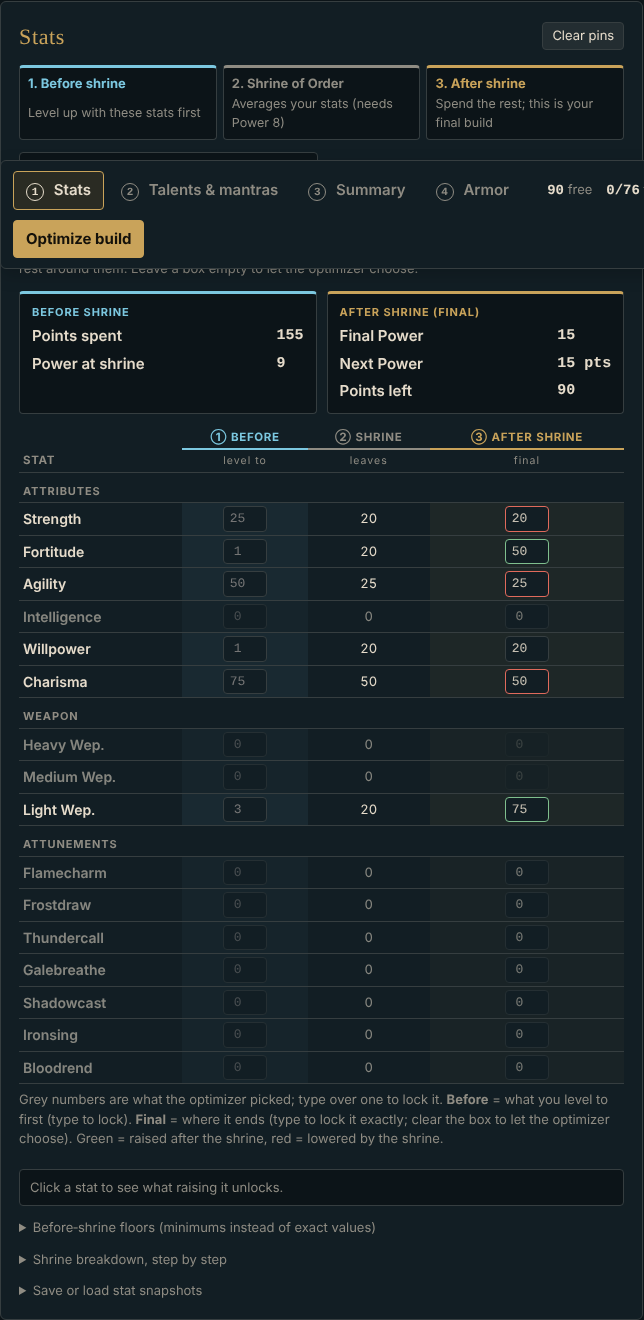
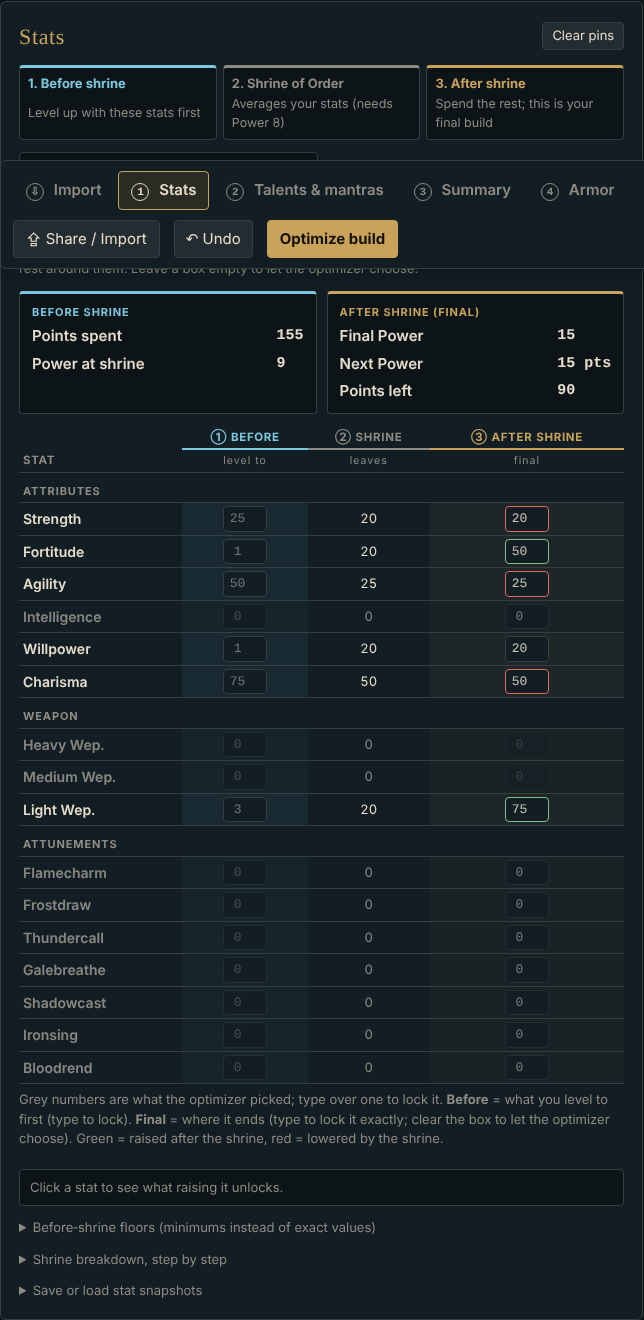
AI maker focuses one attunement (80/40, 80/80 when points allow); Report a bug tab (v1.21)
- One main attunement; two = 80/40, raised to 80/80 when the points allow
  (straight to 80/80 for mages or 'dual'); three or more = main + 40s
- Report a bug tab: reports are emailed privately to the developer through
  Web3Forms once its access key is added (BUG_KEY)

Claude-Session: https://claude.ai/code/session_01FgpXtZoLrXDjHgUHZTAHg7

Changed region(s): [[0.0, 0.1242, 0.6211, 0.2174], [0.8385, 0.1242, 0.9938, 0.1553], [0.6522, 0.1242, 0.7764, 0.1553]]

diff --git a/index.html b/index.html
@@ -277,6 +277,9 @@ dialog#wiz::backdrop{background:rgba(0,0,0,.6)}
 .likely{display:grid;gap:2px;max-height:620px;overflow:auto}
 .lrow{display:flex;gap:8px;align-items:flex-start;padding:5px 4px;border-bottom:1px solid var(--line);cursor:pointer}
 .lrow input{margin-top:3px}.lrow .nm{min-width:0}.lrow small{display:block;color:var(--dim);font-size:11.5px}
+.bugform{display:grid;gap:10px}.bugform label{display:grid;gap:4px;font-size:14px}.bugform textarea,.bugform input[type=text]{font:inherit;font-size:14px;background:var(--abyss);color:var(--bone);border:1px solid var(--line);border-radius:4px;padding:6px 8px;resize:vertical}
+.bugform label.hint{display:block}.hp{position:absolute;left:-9999px;width:1px;height:1px;opacity:0}
+.bugtips{margin:0;padding-left:18px;display:grid;gap:4px}
 .tipacts{display:flex;flex-wrap:wrap;gap:4px;margin-top:4px}
 .bmsteps{margin:4px 0;padding-left:20px;display:grid;gap:4px}
 #imp1{resize:vertical;font:inherit;font-size:13px;background:var(--abyss);color:var(--bone);border:1px solid var(--line);border-radius:4px;padding:6px 8px}
@@ -426,7 +429,7 @@ details summary{cursor:pointer;color:var(--dim);font-size:13px}
 <div class="wrap">
 <header class="topbar">
   <div>
-    <h1>Meta <span>Builder</span><small class="ver" title="Meta Builder version">v1.20</small></h1>
+    <h1>Meta <span>Builder</span><small class="ver" title="Meta Builder version">v1.21</small></h1>
     <p>Deepwoken Shrine of Order planner: build, optimize, check damage, then gear up.</p>
   </div>
   <details id="lookbox" style="min-width:min(100%,280px)"><summary><svg viewBox="0 0 24 24" fill="none" stroke="currentColor" stroke-width="2" aria-hidden="true"><path d="M12 3a9 9 0 1 0 0 18c1.1 0 1.6-.9 1.6-1.7 0-.5-.2-.9-.5-1.2-.3-.3-.5-.7-.5-1.2 0-.9.8-1.7 1.7-1.7H16a5 5 0 0 0 5-5c0-3.9-4-7.2-9-7.2Z"/><circle cx="7.5" cy="11" r="1.2" fill="currentColor"/><circle cx="10.5" cy="7" r="1.2" fill="currentColor"/><circle cx="15" cy="7.5" r="1.2" fill="currentColor"/></svg>Customize look</summary>
@@ -455,6 +458,7 @@ details summary{cursor:pointer;color:var(--dim);font-size:13px}
     <button role="tab" id="t-req" data-tab="req" aria-controls="tab-req"><b>2</b> Talents &amp; mantras</button>
     <button role="tab" id="t-sum" data-tab="sum" aria-controls="tab-sum"><b>3</b> Summary</button>
     <button role="tab" id="t-arm" data-tab="arm" aria-controls="tab-arm"><b>4</b> Armor</button>
+    <button role="tab" id="t-bug" data-tab="bug" aria-controls="tab-bug"><b>!</b> Report a bug</button>
   </div>
   <div class="status" id="status" aria-live="polite"></div>
   <div class="seg modeseg" id="modeseg" role="group" aria-label="Planner mode"><button class="mini" data-mode="opt" title="The optimizer picks pre-shrine stats, raises stats for your talents and spends leftovers">Optimizer</button><button class="mini" data-mode="man" title="You set every stat yourself; nothing is raised or chosen for you">Manual</button></div>
@@ -736,6 +740,36 @@ details summary{cursor:pointer;color:var(--dim);font-size:13px}
       <input type="text" id="ximport" placeholder="Paste a share link, deepwoken.co link, or Deepwoken build text" aria-label="Import build" style="flex:1 1 200px">
       <button id="xload">Import</button>
     </div>
+  </section>
+</div>
+</div>
+
+<!-- ============ REPORT A BUG ============ -->
+<div class="tabpane grid" id="tab-bug" role="tabpanel" aria-labelledby="t-bug" hidden>
+<div class="col">
+  <section class="panel">
+    <h2>Report a bug</h2>
+    <p class="hint" style="margin:0">Something wrong or confusing? Tell us here. Reports go privately to the developer; nobody else can see them.</p>
+    <form id="bugform" class="bugform" autocomplete="off">
+      <label>What went wrong?<textarea id="bugwhat" rows="4" required maxlength="3000" placeholder="e.g. I pressed Optimize build and it went over budget"></textarea></label>
+      <label>What did you expect instead? <span class="hint">(optional)</span><textarea id="bugexp" rows="2" maxlength="1500"></textarea></label>
+      <label>How to reach you if you want a reply <span class="hint">(optional: Discord name or email)</span><input type="text" id="bugcontact" maxlength="120"></label>
+      <label class="hint"><input type="checkbox" id="bugbuild" checked> Include my current build (a link to it), the version and my browser, so the bug can be reproduced</label>
+      <input type="checkbox" name="botcheck" id="bugbot" class="hp" tabindex="-1" autocomplete="off" aria-hidden="true">
+      <div class="row"><button class="primary" type="submit" id="bugsend">Send report</button></div>
+      <p class="hint" id="bugmsg" aria-live="polite" style="margin:0"></p>
+    </form>
+  </section>
+</div>
+<div class="col">
+  <section class="panel">
+    <h2>Good reports</h2>
+    <ul class="hint bugtips">
+      <li>Say which tab and which button you used.</li>
+      <li>Say what you typed or picked right before it happened.</li>
+      <li>Keep “Include my current build” ticked, so the exact build can be opened again.</li>
+      <li>One problem per report.</li>
+    </ul>
   </section>
 </div>
 </div>
@@ -4714,7 +4748,7 @@ function renderGear(){
   $('gnote').innerHTML=(st.bad.length?`<span class="gbad">Your final stats don't meet ${esc(st.bad.join(', '))}.</span> `:'')+'Effective HP = health ÷ (1 − armor × (1 − attacker penetration)). Assumes Power 20 at the end of the build. Set bonuses and talent health bonuses aren\'t counted.';
 }
 // ================= tabs, status, final stats, condensed talents =================
-const TABS=['imp','build','req','sum','arm'];
+const TABS=['imp','build','req','sum','arm','bug'];
 function showTab(id){if(id==='opt')id='build';if(!TABS.includes(id))id='build';S.tab=id;
   for(const k of TABS){$('tab-'+k).hidden=k!==id;$('t-'+(k==='build'?'build':k)).setAttribute('aria-selected',k===id)}
   save();if(id==='build'&&$('otbl').closest('details').open)renderOathTable()}
@@ -5193,6 +5227,9 @@ function wizardApply(){
         renderResults(compute({starts:4,iters:80,seedP:prevP()}))}
       const lw=Object.entries(lowered);if(lw.length)notes.push('lowered '+lw.map(([l,v])=>`${l} to ${v}`).join(', ')+' so it fits 330 points');
       if(last&&last.best&&last.best.free<0)notes.push(`still ${-last.best.free} over; lower a floor or drop a talent`)}
+    // two attunements: try 80/80 when the points allow, else keep 80/40
+    if(p.attUp&&S.atts[p.attUp]===40&&last&&last.best&&last.best.free>=40){S.atts[p.attUp]=80;const r=compute({starts:6,iters:100,seedP:prevP()});
+      if(r.best&&!r.best.impossible&&r.best.free>=0){renderResults(r);notes.push(`${ATT[p.attUp][0]} raised to 80 (the points allow 80/80)`)}else S.atts[p.attUp]=40}
     if(addPop){const picks=autoPickList(ctxNow()).slice(0,20);for(const x of picks){x.pre.forEach(q=>{if(!S.sel.includes(q))S.sel.push(q)});if(!S.sel.includes(x.n))S.sel.push(x.n)}if(picks.length)notes.push(`added ${picks.length} popular talents`);const dr=trimToCap();if(dr.length)notes.push(`dropped ${dr.length} to fit the talent cap`);run()}
     else{const dr=trimToCap();if(dr.length){notes.push(`dropped ${dr.length} to fit the talent cap`);run()}}
     renderInputs();
@@ -5389,7 +5426,12 @@ function aiParse(txt,basePreset){
   const at=AI_ATT.map(([k,re])=>{const m=sAtt.match(re);return m?{k,i:m.index,re}:null}).filter(Boolean).sort((a,b)=>a.i-b.i);
   // attunements only when asked for (a mage too): preset attunements are not carried in
   if(!at.length&&!basePreset)p.atts={};
-  if(at.length&&!has(/\bsilentheart\b|\bno mantras\b|\bno attunement\b/)){if(!basePreset)p.atts={};at.forEach((x,i)=>{const n=aiNumNear(sAtt,x.re);p.atts[x.k]=Math.max(p.atts[x.k]||0,n||(i===0?(caster?100:80):40))});got.push(at.map(x=>`${ATT[x.k][0]} ${p.atts[x.k]}`).join(' + '))}
+  // one main attunement (the first named): 80, or 100 for a mage. Two: 80/80 for a mage or when asked ("dual",
+  // "both 80"), else 80/40 and the second goes to 80 if the points allow. Three or more: the main one high, the rest 40.
+  if(at.length&&!has(/\bsilentheart\b|\bno mantras\b|\bno attunement\b/)){if(!basePreset)p.atts={};const dual=at.length===2&&(caster||has(/\bdual\b|\bdouble\b|\bboth\b|\b80 ?\/ ?80\b|\bequal\b/));
+    at.forEach((x,i)=>{const n=aiNumNear(sAtt,x.re);p.atts[x.k]=Math.max(p.atts[x.k]||0,n||(i===0?(caster?100:80):at.length===2&&dual?80:40))});
+    if(at.length===2&&!dual&&!aiNumNear(sAtt,at[1].re))p.attUp=at[1].k;
+    got.push(at.map(x=>`${ATT[x.k][0]} ${p.atts[x.k]}`).join(' + ')+(at.length>=3?` (main ${ATT[at[0].k][0]}, the others 40)`:p.attUp?` (${ATT[p.attUp][0]} goes to 80 if the points allow)`:''))}
   // weapon, outfit, gear by name
   let wN=by('weapon').sort((a,b)=>b.length-a.length)[0];
   // "hero blade" / "heros blade" without the full name: the element comes from the attunement mentioned (Flame if none)
@@ -5602,6 +5644,24 @@ function loadShot(){const fin=SHOT.fin;if(Object.keys(fin).length<2){say('Add th
   S.req=[...new Set(SHOT.seen.filter(n=>TBY.has(n)||MBY.has(n)))];S.avoid=(S.avoid||[]).filter(n=>!S.req.includes(n));
   const msg=applyDwb({name:'Screenshot build',src:'your screenshot',fin:{...fin},pre,oath:SHOT.oath||'None',weapon:w,talents,mantras,unknown:[]});
   showTab('build');sayUndo(msg)}
+
+
+// ================= bug reports =================
+// Sent through Web3Forms, which emails each report to the developer only. BUG_KEY is the public access key Web3Forms
+// gives for that inbox (it can only send to it). Empty = not set up yet.
+const BUG_KEY='';
+const MB_VERSION=(document.querySelector('header h1 .ver')||{}).textContent||'';
+async function sendBug(){const what=$('bugwhat').value.trim();const msg=$('bugmsg');if(what.length<5){msg.textContent='Describe what went wrong first.';return}
+  if($('bugbot').checked)return;
+  const extra=$('bugbuild').checked?`\n\nVersion: ${MB_VERSION}\nBuild: ${(()=>{try{return buildLink()}catch(e){return '-'}})()}\nTab: ${S.tab}\nBrowser: ${navigator.userAgent}`:'';
+  const body=`What went wrong:\n${what}\n\nExpected:\n${$('bugexp').value.trim()||'-'}\n\nContact: ${$('bugcontact').value.trim()||'-'}${extra}`;
+  if(!BUG_KEY){msg.innerHTML='Bug reports aren\'t switched on yet. <button type="button" class="mini" id="bugcopy">Copy report</button>';$('bugcopy').onclick=()=>copyText(body,'Report copied.');return}
+  $('bugsend').disabled=true;msg.textContent='Sending…';
+  try{const r=await fetch('https://api.web3forms.com/submit',{method:'POST',headers:{'Content-Type':'application/json',Accept:'application/json'},body:JSON.stringify({access_key:BUG_KEY,subject:`Meta Builder bug report ${MB_VERSION}`,from_name:'Meta Builder',message:body,botcheck:false})});
+    const j=await r.json().catch(()=>({}));if(!r.ok||j.success===false)throw new Error(j.message||('HTTP '+r.status));
+    msg.textContent='Thanks! Your report was sent.';$('bugwhat').value='';$('bugexp').value=''}
+  catch(e){msg.innerHTML=`The report couldn't be sent from here${location.hostname.endsWith('github.io')?'':` (this page may block it; the <a href="${MB_URL}" target="_blank" rel="noopener">website version</a> can send it)`}. <button type="button" class="mini" id="bugcopy">Copy report</button>`;$('bugcopy').onclick=()=>copyText(body,'Report copied.')}
+  finally{$('bugsend').disabled=false}}
 
 // ---- talent hover card ----
 function tipHtml(n){const t=TBY.get(n);const C=last?last.R.C:closure();const sy=t?synOf(n,C):[];const d=TDESC.get(n);
@@ -5829,6 +5889,7 @@ $('imp1form').addEventListener('submit',e=>{e.preventDefault();runImport($('imp1
 // pasting a full build imports it straight away
 $('imp1').addEventListener('paste',()=>setTimeout(()=>{const v=$('imp1').value;if(/dw1[A-Za-z0-9_-]{10,}/.test(v)||/==\s*(ATTRIBUTES|TALENTS)\s*==/i.test(v)||(v.includes('{')&&/"talents"|"attributes"/.test(v)))runImport(v,$('imp1msg'),()=>{$('imp1').value=''});else if(DW_LINK.test(v)){$('imp1msg').innerHTML=pasteHelp('');$('dwcohelp').open=true}},0));
 
+$('bugform').addEventListener('submit',e=>{e.preventDefault();sendBug()});
 // screenshot import
 $('shotpick').addEventListener('click',()=>$('shotfile').click());
 $('shotfile').addEventListener('change',e=>{const f=e.target.files&&e.target.files[0];if(f)readShot(f);e.target.value=''});

diff --git a/src/template.html b/src/template.html
@@ -263,6 +263,9 @@ dialog#wiz::backdrop{background:rgba(0,0,0,.6)}
 .likely{display:grid;gap:2px;max-height:620px;overflow:auto}
 .lrow{display:flex;gap:8px;align-items:flex-start;padding:5px 4px;border-bottom:1px solid var(--line);cursor:pointer}
 .lrow input{margin-top:3px}.lrow .nm{min-width:0}.lrow small{display:block;color:var(--dim);font-size:11.5px}
+.bugform{display:grid;gap:10px}.bugform label{display:grid;gap:4px;font-size:14px}.bugform textarea,.bugform input[type=text]{font:inherit;font-size:14px;background:var(--abyss);color:var(--bone);border:1px solid var(--line);border-radius:4px;padding:6px 8px;resize:vertical}
+.bugform label.hint{display:block}.hp{position:absolute;left:-9999px;width:1px;height:1px;opacity:0}
+.bugtips{margin:0;padding-left:18px;display:grid;gap:4px}
 .tipacts{display:flex;flex-wrap:wrap;gap:4px;margin-top:4px}
 .bmsteps{margin:4px 0;padding-left:20px;display:grid;gap:4px}
 #imp1{resize:vertical;font:inherit;font-size:13px;background:var(--abyss);color:var(--bone);border:1px solid var(--line);border-radius:4px;padding:6px 8px}
@@ -412,7 +415,7 @@ details summary{cursor:pointer;color:var(--dim);font-size:13px}
 <div class="wrap">
 <header class="topbar">
   <div>
-    <h1>Meta <span>Builder</span><small class="ver" title="Meta Builder version">v1.20</small></h1>
+    <h1>Meta <span>Builder</span><small class="ver" title="Meta Builder version">v1.21</small></h1>
     <p>Deepwoken Shrine of Order planner: build, optimize, check damage, then gear up.</p>
   </div>
   <details id="lookbox" style="min-width:min(100%,280px)"><summary><svg viewBox="0 0 24 24" fill="none" stroke="currentColor" stroke-width="2" aria-hidden="true"><path d="M12 3a9 9 0 1 0 0 18c1.1 0 1.6-.9 1.6-1.7 0-.5-.2-.9-.5-1.2-.3-.3-.5-.7-.5-1.2 0-.9.8-1.7 1.7-1.7H16a5 5 0 0 0 5-5c0-3.9-4-7.2-9-7.2Z"/><circle cx="7.5" cy="11" r="1.2" fill="currentColor"/><circle cx="10.5" cy="7" r="1.2" fill="currentColor"/><circle cx="15" cy="7.5" r="1.2" fill="currentColor"/></svg>Customize look</summary>
@@ -441,6 +444,7 @@ details summary{cursor:pointer;color:var(--dim);font-size:13px}
     <button role="tab" id="t-req" data-tab="req" aria-controls="tab-req"><b>2</b> Talents &amp; mantras</button>
     <button role="tab" id="t-sum" data-tab="sum" aria-controls="tab-sum"><b>3</b> Summary</button>
     <button role="tab" id="t-arm" data-tab="arm" aria-controls="tab-arm"><b>4</b> Armor</button>
+    <button role="tab" id="t-bug" data-tab="bug" aria-controls="tab-bug"><b>!</b> Report a bug</button>
   </div>
   <div class="status" id="status" aria-live="polite"></div>
   <div class="seg modeseg" id="modeseg" role="group" aria-label="Planner mode"><button class="mini" data-mode="opt" title="The optimizer picks pre-shrine stats, raises stats for your talents and spends leftovers">Optimizer</button><button class="mini" data-mode="man" title="You set every stat yourself; nothing is raised or chosen for you">Manual</button></div>
@@ -722,6 +726,36 @@ details summary{cursor:pointer;color:var(--dim);font-size:13px}
       <input type="text" id="ximport" placeholder="Paste a share link, deepwoken.co link, or Deepwoken build text" aria-label="Import build" style="flex:1 1 200px">
       <button id="xload">Import</button>
     </div>
+  </section>
+</div>
+</div>
+
+<!-- ============ REPORT A BUG ============ -->
+<div class="tabpane grid" id="tab-bug" role="tabpanel" aria-labelledby="t-bug" hidden>
+<div class="col">
+  <section class="panel">
+    <h2>Report a bug</h2>
+    <p class="hint" style="margin:0">Something wrong or confusing? Tell us here. Reports go privately to the developer; nobody else can see them.</p>
+    <form id="bugform" class="bugform" autocomplete="off">
+      <label>What went wrong?<textarea id="bugwhat" rows="4" required maxlength="3000" placeholder="e.g. I pressed Optimize build and it went over budget"></textarea></label>
+      <label>What did you expect instead? <span class="hint">(optional)</span><textarea id="bugexp" rows="2" maxlength="1500"></textarea></label>
+      <label>How to reach you if you want a reply <span class="hint">(optional: Discord name or email)</span><input type="text" id="bugcontact" maxlength="120"></label>
+      <label class="hint"><input type="checkbox" id="bugbuild" checked> Include my current build (a link to it), the version and my browser, so the bug can be reproduced</label>
+      <input type="checkbox" name="botcheck" id="bugbot" class="hp" tabindex="-1" autocomplete="off" aria-hidden="true">
+      <div class="row"><button class="primary" type="submit" id="bugsend">Send report</button></div>
+      <p class="hint" id="bugmsg" aria-live="polite" style="margin:0"></p>
+    </form>
+  </section>
+</div>
+<div class="col">
+  <section class="panel">
+    <h2>Good reports</h2>
+    <ul class="hint bugtips">
+      <li>Say which tab and which button you used.</li>
+      <li>Say what you typed or picked right before it happened.</li>
+      <li>Keep “Include my current build” ticked, so the exact build can be opened again.</li>
+      <li>One problem per report.</li>
+    </ul>
   </section>
 </div>
 </div>
@@ -1790,7 +1824,7 @@ function renderGear(){
   $('gnote').innerHTML=(st.bad.length?`<span class="gbad">Your final stats don't meet ${esc(st.bad.join(', '))}.</span> `:'')+'Effective HP = health ÷ (1 − armor × (1 − attacker penetration)). Assumes Power 20 at the end of the build. Set bonuses and talent health bonuses aren\'t counted.';
 }
 // ================= tabs, status, final stats, condensed talents =================
-const TABS=['imp','build','req','sum','arm'];
+const TABS=['imp','build','req','sum','arm','bug'];
 function showTab(id){if(id==='opt')id='build';if(!TABS.includes(id))id='build';S.tab=id;
   for(const k of TABS){$('tab-'+k).hidden=k!==id;$('t-'+(k==='build'?'build':k)).setAttribute('aria-selected',k===id)}
   save();if(id==='build'&&$('otbl').closest('details').open)renderOathTable()}
@@ -2269,6 +2303,9 @@ function wizardApply(){
         renderResults(compute({starts:4,iters:80,seedP:prevP()}))}
       const lw=Object.entries(lowered);if(lw.length)notes.push('lowered '+lw.map(([l,v])=>`${l} to ${v}`).join(', ')+' so it fits 330 points');
       if(last&&last.best&&last.best.free<0)notes.push(`still ${-last.best.free} over; lower a floor or drop a talent`)}
+    // two attunements: try 80/80 when the points allow, else keep 80/40
+    if(p.attUp&&S.atts[p.attUp]===40&&last&&last.best&&last.best.free>=40){S.atts[p.attUp]=80;const r=compute({starts:6,iters:100,seedP:prevP()});
+      if(r.best&&!r.best.impossible&&r.best.free>=0){renderResults(r);notes.push(`${ATT[p.attUp][0]} raised to 80 (the points allow 80/80)`)}else S.atts[p.attUp]=40}
     if(addPop){const picks=autoPickList(ctxNow()).slice(0,20);for(const x of picks){x.pre.forEach(q=>{if(!S.sel.includes(q))S.sel.push(q)});if(!S.sel.includes(x.n))S.sel.push(x.n)}if(picks.length)notes.push(`added ${picks.length} popular talents`);const dr=trimToCap();if(dr.length)notes.push(`dropped ${dr.length} to fit the talent cap`);run()}
     else{const dr=trimToCap();if(dr.length){notes.push(`dropped ${dr.length} to fit the talent cap`);run()}}
     renderInputs();
@@ -2465,7 +2502,12 @@ function aiParse(txt,basePreset){
   const at=AI_ATT.map(([k,re])=>{const m=sAtt.match(re);return m?{k,i:m.index,re}:null}).filter(Boolean).sort((a,b)=>a.i-b.i);
   // attunements only when asked for (a mage too): preset attunements are not carried in
   if(!at.length&&!basePreset)p.atts={};
-  if(at.length&&!has(/\bsilentheart\b|\bno mantras\b|\bno attunement\b/)){if(!basePreset)p.atts={};at.forEach((x,i)=>{const n=aiNumNear(sAtt,x.re);p.atts[x.k]=Math.max(p.atts[x.k]||0,n||(i===0?(caster?100:80):40))});got.push(at.map(x=>`${ATT[x.k][0]} ${p.atts[x.k]}`).join(' + '))}
+  // one main attunement (the first named): 80, or 100 for a mage. Two: 80/80 for a mage or when asked ("dual",
+  // "both 80"), else 80/40 and the second goes to 80 if the points allow. Three or more: the main one high, the rest 40.
+  if(at.length&&!has(/\bsilentheart\b|\bno mantras\b|\bno attunement\b/)){if(!basePreset)p.atts={};const dual=at.length===2&&(caster||has(/\bdual\b|\bdouble\b|\bboth\b|\b80 ?\/ ?80\b|\bequal\b/));
+    at.forEach((x,i)=>{const n=aiNumNear(sAtt,x.re);p.atts[x.k]=Math.max(p.atts[x.k]||0,n||(i===0?(caster?100:80):at.length===2&&dual?80:40))});
+    if(at.length===2&&!dual&&!aiNumNear(sAtt,at[1].re))p.attUp=at[1].k;
+    got.push(at.map(x=>`${ATT[x.k][0]} ${p.atts[x.k]}`).join(' + ')+(at.length>=3?` (main ${ATT[at[0].k][0]}, the others 40)`:p.attUp?` (${ATT[p.attUp][0]} goes to 80 if the points allow)`:''))}
   // weapon, outfit, gear by name
   let wN=by('weapon').sort((a,b)=>b.length-a.length)[0];
   // "hero blade" / "heros blade" without the full name: the element comes from the attunement mentioned (Flame if none)
@@ -2678,6 +2720,24 @@ function loadShot(){const fin=SHOT.fin;if(Object.keys(fin).length<2){say('Add th
   S.req=[...new Set(SHOT.seen.filter(n=>TBY.has(n)||MBY.has(n)))];S.avoid=(S.avoid||[]).filter(n=>!S.req.includes(n));
   const msg=applyDwb({name:'Screenshot build',src:'your screenshot',fin:{...fin},pre,oath:SHOT.oath||'None',weapon:w,talents,mantras,unknown:[]});
   showTab('build');sayUndo(msg)}
+
+
+// ================= bug reports =================
+// Sent through Web3Forms, which emails each report to the developer only. BUG_KEY is the public access key Web3Forms
+// gives for that inbox (it can only send to it). Empty = not set up yet.
+const BUG_KEY='';
+const MB_VERSION=(document.querySelector('header h1 .ver')||{}).textContent||'';
+async function sendBug(){const what=$('bugwhat').value.trim();const msg=$('bugmsg');if(what.length<5){msg.textContent='Describe what went wrong first.';return}
+  if($('bugbot').checked)return;
+  const extra=$('bugbuild').checked?`\n\nVersion: ${MB_VERSION}\nBuild: ${(()=>{try{return buildLink()}catch(e){return '-'}})()}\nTab: ${S.tab}\nBrowser: ${navigator.userAgent}`:'';
+  const body=`What went wrong:\n${what}\n\nExpected:\n${$('bugexp').value.trim()||'-'}\n\nContact: ${$('bugcontact').value.trim()||'-'}${extra}`;
+  if(!BUG_KEY){msg.innerHTML='Bug reports aren\'t switched on yet. <button type="button" class="mini" id="bugcopy">Copy report</button>';$('bugcopy').onclick=()=>copyText(body,'Report copied.');return}
+  $('bugsend').disabled=true;msg.textContent='Sending…';
+  try{const r=await fetch('https://api.web3forms.com/submit',{method:'POST',headers:{'Content-Type':'application/json',Accept:'application/json'},body:JSON.stringify({access_key:BUG_KEY,subject:`Meta Builder bug report ${MB_VERSION}`,from_name:'Meta Builder',message:body,botcheck:false})});
+    const j=await r.json().catch(()=>({}));if(!r.ok||j.success===false)throw new Error(j.message||('HTTP '+r.status));
+    msg.textContent='Thanks! Your report was sent.';$('bugwhat').value='';$('bugexp').value=''}
+  catch(e){msg.innerHTML=`The report couldn't be sent from here${location.hostname.endsWith('github.io')?'':` (this page may block it; the <a href="${MB_URL}" target="_blank" rel="noopener">website version</a> can send it)`}. <button type="button" class="mini" id="bugcopy">Copy report</button>`;$('bugcopy').onclick=()=>copyText(body,'Report copied.')}
+  finally{$('bugsend').disabled=false}}
 
 // ---- talent hover card ----
 function tipHtml(n){const t=TBY.get(n);const C=last?last.R.C:closure();const sy=t?synOf(n,C):[];const d=TDESC.get(n);
@@ -2905,6 +2965,7 @@ $('imp1form').addEventListener('submit',e=>{e.preventDefault();runImport($('imp1
 // pasting a full build imports it straight away
 $('imp1').addEventListener('paste',()=>setTimeout(()=>{const v=$('imp1').value;if(/dw1[A-Za-z0-9_-]{10,}/.test(v)||/==\s*(ATTRIBUTES|TALENTS)\s*==/i.test(v)||(v.includes('{')&&/"talents"|"attributes"/.test(v)))runImport(v,$('imp1msg'),()=>{$('imp1').value=''});else if(DW_LINK.test(v)){$('imp1msg').innerHTML=pasteHelp('');$('dwcohelp').open=true}},0));
 
+$('bugform').addEventListener('submit',e=>{e.preventDefault();sendBug()});
 // screenshot import
 $('shotpick').addEventListener('click',()=>$('shotfile').click());
 $('shotfile').addEventListener('change',e=>{const f=e.target.files&&e.target.files[0];if(f)readShot(f);e.target.value=''});

diff --git a/NOTES.md b/NOTES.md
@@ -147,3 +147,7 @@ The version shown next to the title is in `src/template.html` (`<small class="ve
 - Reading: Claude artifact uses `sample.json` with the image (capability `sample:{images:true}`); GitHub Pages loads Tesseract.js 5.1.1 from jsdelivr on demand (`loadTesseract`, `shotCanvas` upscales + contrast, `ocrFix`, `shotFromText`).
 - `likelyTalents`: talents the stats allow (final, or pre-shrine if >=2 pre stats given), score = 0.55*conditional take rate (CONDD, else POP) + 0.9*co-occurrence with seen talents in REF builds (+oath) + synergy; exclusives respected; ticks the top (cap - seen) where cap assumes >=6 mantras.
 - Loading: seen talents/mantras become required (`S.req`), then `applyDwb`.
+
+## v1.21
+- AI maker attunements: first named = main (80, mage 100); two = 80/40 with `p.attUp` raised to 80 in `wizardApply` when >=40 points are free (80/80 straight away for mages or "dual/double/both"); three+ = main + 40s.
+- Report a bug tab (`tab-bug`): sends through Web3Forms (`BUG_KEY`, emailed to the owner only). The artifact db cannot take reports: public-link visitors hold `view` and can never write. Empty key = "not switched on yet" + Copy report.
